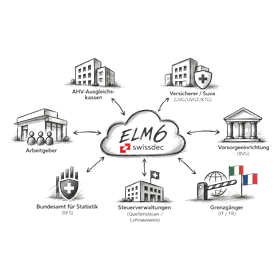
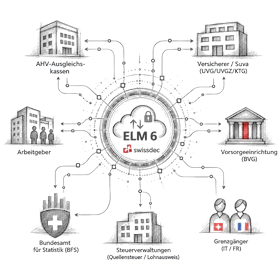
Die ELM-Kachel zeigt das neue Diagramm formatfüllend, und eine Rückfrage wird als Maske beantwortet.
Beim Prüfen, Senden und Antworten läuft die Sanduhr, damit man sieht, dass OneCrew noch arbeitet.

Changed region(s): [[0.0286, 0.0571, 1.0, 0.9429]]

diff --git a/wwwroot/js/elm-anwender.js b/wwwroot/js/elm-anwender.js
@@ -19,6 +19,34 @@ let _elmaHinweis = null;
 let _elmaTimer = null;
 let _elmaOffen = new Set();
 
+(function () {
+    if (document.getElementById('elmaSanduhrStyle')) return;
+    const s = document.createElement('style');
+    s.id = 'elmaSanduhrStyle';
+    s.textContent = '@keyframes elmaSanduhr{0%,40%{transform:rotate(0)}60%,100%{transform:rotate(180deg)}}'
+        + '.elma-sanduhr{display:inline-block;font-size:36px;line-height:1;animation:elmaSanduhr 1.8s ease-in-out infinite}'
+        + '@media (prefers-reduced-motion:reduce){.elma-sanduhr{animation:none}}';
+    document.head.appendChild(s);
+})();
+
+const _ELMA_FELD = 'box-sizing:border-box;background:#fff;border:1px solid rgba(255,255,255,0.95);border-radius:10px;'
+    + 'padding:8px 10px;font-size:13px;color:#3f3f3f;box-shadow:0 2px 6px rgba(60,55,48,0.13), inset 0 1px 0 rgba(255,255,255,0.9)';
+
+function _elmaWarte(titel, text) {
+    const el = document.getElementById('elmaStatus');
+    if (!el) return;
+    if (!titel) { el.innerHTML = ''; return; }
+    el.innerHTML = `<div style="margin-top:16px;padding:18px 20px;border-radius:16px;background:rgba(255,255,255,0.55);
+            border:1px solid rgba(255,255,255,0.75);box-shadow:0 10px 28px rgba(60,55,48,0.12);display:flex;gap:16px;align-items:center">
+        <div class="elma-sanduhr" aria-hidden="true">⏳</div>
+        <div>
+            <div style="font-size:16px;font-weight:700;color:#3f3f3f">${_elmaEsc(titel)}</div>
+            <div style="font-size:13px;color:#646464;margin-top:4px">${_elmaEsc(text || '')}</div>
+        </div>
+    </div>`;
+    el.scrollIntoView({ behavior: 'smooth', block: 'nearest' });
+}
+
 function _elmaEsc(s) {
     return String(s ?? '').replace(/[&<>"']/g, c => ({ '&': '&amp;', '<': '&lt;', '>': '&gt;', '"': '&quot;', "'": '&#39;' }[c]));
 }
@@ -115,7 +143,8 @@ async function elmaPruefen() {
     _elmaBusy = true;
     const btn = document.getElementById('elmaPruefenBtn');
     if (btn) btn.disabled = true;
-    if (el) el.innerHTML = '<div style="margin-top:14px;font-size:13px;color:#646464">Meldung wird geprüft …</div>';
+    if (el) el.innerHTML = '';
+    _elmaWarte('Meldung wird geprüft', 'OneCrew baut die Meldung und schaut, ob sie so rausgehen kann.');
     try {
         const q = new URLSearchParams({ art: a.art, jahr: String(a.jahr) });
         if (a.monat) q.set('monat', String(a.monat));
@@ -127,6 +156,7 @@ async function elmaPruefen() {
         _elmaVorschau = null;
         if (el) el.innerHTML = _elmaKasten(false, _elmaEsc(e.message));
     } finally {
+        _elmaWarte(null);
         _elmaBusy = false;
         if (btn) btn.disabled = false;
         elmaVorschauZeichnen();
@@ -172,7 +202,7 @@ async function elmaSenden() {
         : `${v.titel} senden?`;
     if (!(await liquidConfirm(frage, { title: 'Meldung senden', yesLabel: 'Senden', noLabel: 'Abbrechen' }))) return;
     const body = Object.assign({}, v.auswahl, { ersetztId: _elmaErsatz?.id || null, ziel: null });
-    const j = await _elmaPost('senden', body);
+    const j = await _elmaPost('senden', body, 'Meldung wird gesendet', 'OneCrew übergibt sie an Swissdec.');
     if (j?.ok) {
         _elmaVorschau = null;
         _elmaErsatz = null;
@@ -220,11 +250,11 @@ function elmaErsatzAbbrechen() {
     if (el) el.innerHTML = '';
 }
 
-async function _elmaPost(pfad, body) {
+async function _elmaPost(pfad, body, warteTitel, warteText) {
     if (_elmaBusy) return null;
     _elmaBusy = true;
     _elmaHinweis = null;
-    elmaListeZeichnen();
+    _elmaWarte(warteTitel || 'OneCrew arbeitet', warteText || 'Bitte einen Moment.');
     try {
         const r = await fetch('/api/elm/meldungen/' + pfad, { method: 'POST', headers: ah(), body: JSON.stringify(body || {}) });
         const j = await r.json().catch(() => ({}));
@@ -236,6 +266,7 @@ async function _elmaPost(pfad, body) {
         _elmaHinweis = { ok: false, text: 'Server nicht erreichbar.' };
         return null;
     } finally {
+        _elmaWarte(null);
         _elmaBusy = false;
         elmaListeZeichnen();
     }
@@ -288,7 +319,7 @@ function _elmaZeile(m, mi) {
 function _elmaEmpfaenger(m, mi, e, ei) {
     const freigabe = e.freigabeUrl
         ? `<div style="margin-top:8px"><button type="button" class="btn btn-primary" onclick="elmaFreigeben(${mi}, ${ei})">Beim Empfänger freigeben</button></div>` : '';
-    const nachrichten = (e.nachrichten || []).map((n, ni) => _elmaNachricht(mi, ei, n, ni)).join('');
+    const nachrichten = (e.nachrichten || []).map((n, ni) => _elmaNachricht(mi, ei, n, ni, e.name)).join('');
     if (!freigabe && !nachrichten && !(e.hinweise || []).length) {
         return `<div style="padding:8px 0;border-top:1px solid rgba(60,55,48,0.10);display:flex;gap:10px;align-items:center">
             <span style="font-size:13px;color:#3f3f3f">${_elmaEsc(e.name)}</span>
@@ -304,27 +335,109 @@ function _elmaEmpfaenger(m, mi, e, ei) {
     </div>`;
 }
 
-function _elmaNachricht(mi, ei, n, ni) {
+const _ELMA_TYP = {
+    String: 'Text', Integer: 'Ganze Zahl', Double: 'Zahl', Amount: 'Betrag in Franken',
+    Boolean: 'Ja oder Nein', YesNoUnknown: 'Ja, Nein oder unbekannt', Date: 'Datum', DateTime: 'Datum und Uhrzeit',
+};
+
+function _elmaTypName(typ) { return _ELMA_TYP[typ] || 'Angabe'; }
+
+function _elmaFrageTitel(p) {
+    const raw = (p.label || '').trim();
+    const m = raw.match(/^(.*?)\s*::\s*(String|Integer|Double|Boolean|Date|Datetime|DateTime|Amount|Yes, No or unknown)\s*$/i);
+    const kern = (m ? m[1] : raw).replace(/^Answer\s*/i, '').replace(/^Value\s*/i, '').trim();
+    const ohneKlammer = kern.replace(/^\((.*)\)$/, '$1').trim();
+    if (!ohneKlammer || /^(value only|default only|both)$/i.test(ohneKlammer)) return _elmaTypName(p.frageTyp || p.wertTyp);
+    return ohneKlammer;
+}
+
+function _elmaAnzeigeWert(typ, wert) {
+    if (wert == null || wert === '') return '';
+    if (typeof _uebDialogWert === 'function') return _uebDialogWert(typ, wert);
+    return String(wert);
+}
+
+function _elmaIsoDatum(s) {
+    if (!s) return '';
+    const iso = /^(\d{4}-\d{2}-\d{2})/.exec(String(s));
+    if (iso) return iso[1];
+    const ch = /^(\d{1,2})\.(\d{1,2})\.(\d{4})/.exec(String(s));
+    if (!ch) return '';
+    return `${ch[3]}-${ch[2].padStart(2, '0')}-${ch[1].padStart(2, '0')}`;
+}
+
+function _elmaFeld(id, p, gesperrt) {
+    const typ = p.frageTyp || 'String';
+    const vor = p.antwort ?? p.default ?? '';
+    const dis = gesperrt ? 'disabled' : '';
+    const jaNein = (werte, breite) => {
+        const aktuell = _elmaAnzeigeWert(typ, vor).toLowerCase();
+        return `<div style="width:${breite}"><select id="${id}" ${dis}>${werte.map(w =>
+            `<option value="${w}" ${w === aktuell ? 'selected' : ''}>${w}</option>`).join('')}</select></div>`;
+    };
+    if (typ === 'Boolean') return jaNein(['ja', 'nein'], '7rem');
+    if (typ === 'YesNoUnknown') return jaNein(['ja', 'nein', 'unbekannt'], '11rem');
+    if (typ === 'Date')
+        return `<input id="${id}" type="date" value="${_elmaEsc(_elmaIsoDatum(vor))}" ${dis} style="${_ELMA_FELD};width:11rem">`;
+    if (typ === 'DateTime')
+        return `<input id="${id}" type="text" value="${_elmaEsc(_elmaAnzeigeWert(typ, vor))}" placeholder="TT.MM.JJJJ HH:MM" ${dis} style="${_ELMA_FELD};width:14rem">`;
+    const breite = typ === 'Amount' || typ === 'Double' ? '10rem' : typ === 'Integer' ? '8rem' : '22rem';
+    return `<input id="${id}" type="text" value="${_elmaEsc(_elmaAnzeigeWert(typ, vor))}" inputmode="${typ === 'String' ? 'text' : 'decimal'}" ${dis} style="${_ELMA_FELD};width:${breite}">`;
+}
+
+function _elmaNachricht(mi, ei, n, ni, empfaengerName) {
     if (!n.dialog) return '';
     const d = n.dialog;
-    const absatz = p => {
-        if (!p.istFrage)
-            return `<div style="display:flex;gap:10px;font-size:13px;margin-top:4px"><span style="color:#646464;min-width:160px">${_elmaEsc(p.label)}</span><span>${_elmaEsc(typeof _uebDialogWert === 'function' ? _uebDialogWert(p.wertTyp, p.wert) : (p.wert || ''))}</span></div>`;
-        const feld = typeof _uebDialogFeld === 'function'
-            ? _uebDialogFeld(`elmaDlg-${mi}-${ei}-${ni}-${p.id}`, p, n.beantwortet)
-            : `<input id="elmaDlg-${mi}-${ei}-${ni}-${p.id}" type="text" ${n.beantwortet ? 'disabled' : ''}>`;
-        return `<label style="display:flex;gap:10px;align-items:center;font-size:13px;margin-top:6px;flex-wrap:wrap">
-            <span style="color:#646464;min-width:160px">${_elmaEsc(p.label)}${p.optional ? '' : ' *'}</span>${feld}</label>`;
+    const abschnitte = d.abschnitte || [];
+    const absaetze = d.absaetze || [];
+    const gruppen = [];
+    const bekannt = new Set(abschnitte.map(s => s.id));
+    abschnitte.forEach(s => gruppen.push({ s, zeilen: absaetze.filter(p => p.abschnittRef === s.id) }));
+    const lose = absaetze.filter(p => !p.abschnittRef || !bekannt.has(p.abschnittRef));
+    if (lose.length) gruppen.push({ s: null, zeilen: lose });
+
+    const block = g => {
+        const werte = g.zeilen.filter(p => !p.istFrage && (p.wert || p.wert === 0));
+        const fragen = g.zeilen.filter(p => p.istFrage);
+        if (!werte.length && !fragen.length && !(g.s?.beschreibung)) return '';
+        const kopf = g.s?.titel
+            ? `<div style="font-weight:700;color:#3f3f3f;font-size:14px">${_elmaEsc(g.s.titel)}</div>` : '';
+        const erklaerung = g.s?.beschreibung && g.s.beschreibung !== d.beschreibung
+            ? `<div style="font-size:13px;color:#646464;margin-top:4px;line-height:1.45">${_elmaEsc(g.s.beschreibung)}</div>` : '';
+        const kenntnis = werte.length
+            ? `<div style="margin-top:8px;font-size:12px;color:#8b8b8b">Zur Kenntnis</div>`
+              + werte.map(p => `<div style="display:flex;gap:12px;font-size:13px;margin-top:3px">
+                    <span style="color:#646464">${_elmaEsc(_elmaFrageTitel(p))}</span>
+                    <span style="color:#3f3f3f">${_elmaEsc(_elmaAnzeigeWert(p.wertTyp, p.wert))}</span></div>`).join('')
+            : '';
+        const felder = fragen.map(p => {
+            const id = `elmaDlg-${mi}-${ei}-${ni}-${p.id}`;
+            const hinweis = `${_elmaTypName(p.frageTyp)}${p.optional ? ', freiwillig' : ', Pflicht'}`;
+            return `<label style="display:flex;flex-direction:column;align-items:flex-start;gap:4px;margin-top:12px">
+                <span style="font-size:12px;color:#646464">${_elmaEsc(_elmaFrageTitel(p))}</span>
+                ${_elmaFeld(id, p, n.beantwortet)}
+                <span style="font-size:11px;color:#8b8b8b">${hinweis}</span>
+                ${p.problem ? `<span style="font-size:12px;color:#991b1b">${_elmaEsc(p.problem)}</span>` : ''}
+            </label>`;
+        }).join('');
+        return `<div style="margin-top:14px">${kopf}${erklaerung}${felder}${kenntnis}</div>`;
     };
+
     const fuss = !d.beantwortbar
-        ? ''
+        ? '<div style="font-size:13px;color:#646464;margin-top:10px">Nur zur Kenntnis. Eine Antwort ist nicht nötig.</div>'
         : n.beantwortet
-            ? '<div style="font-size:12px;color:#166534;margin-top:6px">Beantwortet.</div>'
-            : `<div style="display:flex;justify-content:flex-end;margin-top:10px"><button type="button" class="btn btn-primary" onclick="elmaAntworten(${mi}, ${ei}, ${ni})">Antwort senden</button></div>`;
-    return `<div style="margin-top:8px;padding:10px 12px;border-radius:10px;background:rgba(255,255,255,0.7)">
-        ${d.titel ? `<div style="font-weight:600;color:#3f3f3f">${_elmaEsc(d.titel)}</div>` : ''}
-        ${d.beschreibung ? `<div style="font-size:13px;color:#646464;margin-top:2px">${_elmaEsc(d.beschreibung)}</div>` : ''}
-        ${(d.absaetze || []).map(absatz).join('')}${fuss}
+            ? '<div style="font-size:13px;color:#166534;margin-top:12px">Die Antwort ist abgeschickt.</div>'
+            : `<div style="display:flex;justify-content:flex-end;margin-top:16px">
+                <button type="button" class="btn btn-primary" onclick="elmaAntworten(${mi}, ${ei}, ${ni})">Antwort senden</button></div>`;
+    return `<div style="margin-top:12px;padding:16px 18px;border-radius:14px;border:1px solid rgba(60,55,48,0.12);
+            background:linear-gradient(165deg,#eeece4 0%,#e7e4db 50%,#dfdcd1 100%)">
+        <div style="font-size:15px;font-weight:700;color:#3f3f3f">Rückfrage${empfaengerName ? ' von ' + _elmaEsc(empfaengerName) : ''}</div>
+        <div style="font-size:13px;color:#646464;margin-top:4px;line-height:1.45">
+            ${d.beantwortbar && !n.beantwortet ? 'Bitte die offenen Felder ausfüllen. Danach geht die Antwort an den Empfänger.' : ''}
+        </div>
+        ${d.titel ? `<div style="font-weight:600;color:#3f3f3f;margin-top:10px">${_elmaEsc(d.titel)}</div>` : ''}
+        ${d.beschreibung ? `<div style="font-size:13px;color:#646464;margin-top:4px;line-height:1.45">${_elmaEsc(d.beschreibung)}</div>` : ''}
+        ${gruppen.map(block).join('')}${fuss}
     </div>`;
 }
 
@@ -332,11 +445,23 @@ async function elmaAntworten(mi, ei, ni) {
     const m = _elma?.meldungen?.[mi], e = m?.empfaenger?.[ei], n = e?.nachrichten?.[ni];
     if (!n?.dialog) return;
     const werte = {};
+    const fehlt = [];
     n.dialog.absaetze.filter(p => p.istFrage).forEach(p => {
         const f = document.getElementById(`elmaDlg-${mi}-${ei}-${ni}-${p.id}`);
-        if (f) werte[p.id] = f.value.trim() || null;
+        const wert = f ? f.value.trim() : '';
+        if (!wert && !p.optional) fehlt.push(_elmaFrageTitel(p));
+        werte[p.id] = wert || null;
     });
-    await _elmaPost(`${encodeURIComponent(m.id)}/antworten`, { addresseeId: e.addresseeId, storyId: n.storyId, werte });
+    if (fehlt.length) {
+        const st = document.getElementById('elmaStatus');
+        if (st) {
+            st.innerHTML = _elmaKasten(false, 'Bitte noch ausfüllen: ' + fehlt.map(_elmaEsc).join(', ') + '.');
+            st.scrollIntoView({ behavior: 'smooth', block: 'nearest' });
+        }
+        return;
+    }
+    await _elmaPost(`${encodeURIComponent(m.id)}/antworten`, { addresseeId: e.addresseeId, storyId: n.storyId, werte },
+        'Antwort wird gesendet', 'OneCrew schickt Ihre Angaben an den Empfänger.');
 }
 
 function elmaFreigeben(mi, ei) {

diff --git a/wwwroot/index.html b/wwwroot/index.html
@@ -2396,7 +2396,7 @@
                         <span>GastroSocial</span>
                     </button>
                     <button type="button" class="ra-tile admin-hub-cat" data-cat="elm" onclick="hrHubShowCat('elm')" title="ELM 6: Meldungen an Ausgleichskassen, Versicherer, Vorsorge, Steuer, Statistik und Grenzgänger">
-                        <img src="img/hrkat-elm.webp?v=20261030a" alt="" loading="lazy">
+                        <img src="img/hrkat-elm.webp?v=20261030g" alt="" loading="lazy">
                         <span>ELM</span>
                     </button>
                 </div>
@@ -6825,6 +6825,7 @@
                             <button type="button" id="elmaPruefenBtn" class="btn btn-primary" onclick="elmaPruefen()">Prüfen</button>
                         </div>
                         <div id="elmaArtHinweis" style="font-size:12px;color:#8b8b8b;margin-top:10px"></div>
+                        <div id="elmaStatus"></div>
                         <div id="elmaVorschau"></div>
                     </div>
                     <div id="elmaListe" style="max-width:760px;margin-top:18px"></div>
@@ -11465,7 +11466,7 @@ body.theme-dark .stm-karte-ansicht .ov-card-h { color: #f3f0ea; }
 <script type="text/plain" data-modul="js/virenscanner.js?v=20261022b"></script>
 <script type="text/plain" data-modul="js/elm-zertifikat.js?v=20261030b"></script>
 <script type="text/plain" data-modul="js/elm-schnittstelle.js?v=20261016d"></script>
-<script type="text/plain" data-modul="js/elm-anwender.js?v=20261030d"></script>
+<script type="text/plain" data-modul="js/elm-anwender.js?v=20261030f"></script>
 <script type="text/plain" data-modul="js/elm-lohnraster.js?v=20261021a"></script>
 <script type="text/plain" data-modul="js/lohnschema.js?v=20261024g"></script>
 <script type="text/plain" data-modul="js/global-search.js?v=20261023a"></script>
